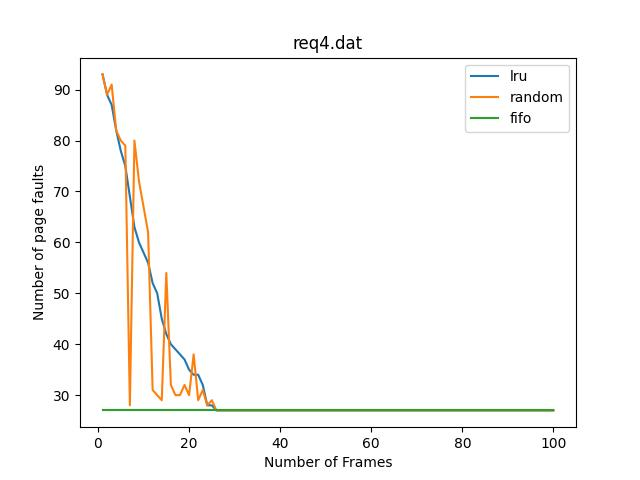
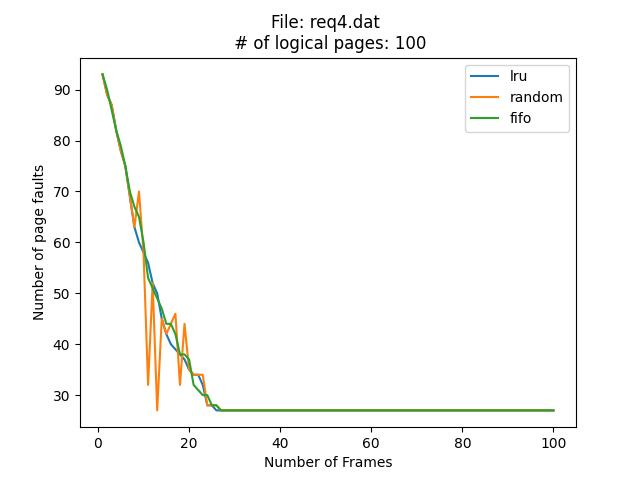
final

Changed region(s): [[0.1562, 0.1562, 0.8438, 0.875], [0.375, 0.0312, 0.6562, 0.125]]

diff --git a/Assignment_8/fifo.cpp b/Assignment_8/fifo.cpp
@@ -6,7 +6,7 @@
 
 using namespace std;
 
-void handle_page_fault(unordered_map<int, bool> &main_memory, int number_of_frames, int requested_page, queue<int> &temp_queue, unordered_map<int, int> &page_table, int &number_of_frames_in_memory) {
+void handle_page_fault(unordered_map<int, bool>& main_memory, int number_of_frames, int requested_page, queue<int>& temp_queue, unordered_map<int, int>& page_table, int& number_of_frames_in_memory) {
     temp_queue.push(requested_page);
 
     if (number_of_frames_in_memory < number_of_frames) {
@@ -30,34 +30,32 @@ int main(int argc, char* argv[]) {
     }
 
     int number_of_pages, number_of_frames, number_of_blocks;
-    
-    try{
+
+    try {
         number_of_pages = atoi(argv[1]), number_of_frames = atoi(argv[2]), number_of_blocks = atoi(argv[3]);
         cout << "Number of pages: " << number_of_pages << endl;
         cout << "Number of frames in main memory: " << number_of_frames << endl;
         cout << "Number of blocks: " << number_of_blocks << endl << endl;
-    }
-    catch (exception e) {
+    } catch (exception e) {
         cout << " Syntax: ./a.out <Number of pages> <Number of Frames in Main Memory> <Number of Blocks> <Path to the file containing requests>\n";
         exit(EXIT_FAILURE);
     }
 
     ifstream request_file;
 
-    try{
+    try {
         request_file.open(argv[4]);
-    }
-    catch (exception e) {
+    } catch (exception e) {
         cout << e.what() << endl;
         exit(EXIT_FAILURE);
     }
 
-    unordered_map<int,int> page_table;
-    unordered_map<int,bool> main_memory;
+    unordered_map<int, int> page_table;
+    unordered_map<int, bool> main_memory;
     queue<int> temp_queue;
     int max_alloted_frame = 0, page_fault = 0, number_of_frames_in_memory = 0;
 
-    while(!request_file.eof()) {
+    while (!request_file.eof()) {
         int requested_page;
         request_file >> requested_page;
         cout << "Requested Page is: " << requested_page << endl;
@@ -75,7 +73,7 @@ int main(int argc, char* argv[]) {
             page_table[requested_page] = max_alloted_frame;
             cout << "New Frame Assigned\n";
         }
-        
+
         if (main_memory.find(page_table[requested_page]) != main_memory.end() && main_memory[page_table[requested_page]]) {
             cout << "Page found in the main memory\n";
         } else {

diff --git a/Assignment_8/plot.py b/Assignment_8/plot.py
@@ -14,12 +14,13 @@ def plot(vSize=60, testcase="req1.dat"):
 	for method in policies:
 		x = np.arange(1, vSize + 1, 1)
 		pageFaults = []
+		# frames in range of [1, vSize]
 		for i in x:
 			pf = getPageFaults(method=method, pSize=i, vSize=vSize, testcase=testcase)
 			pageFaults.append(pf)
 		plt.plot(x, pageFaults, label=method)
 
-	plt.title(testcase)
+	plt.title(f"File: {testcase} \n # of logical pages: {vSize}") 
 	plt.ylabel("Number of page faults")
 	plt.xlabel("Number of Frames")
 	plt.legend()
@@ -32,7 +33,7 @@ def main():
 	plot(60, "req2.dat")
 	plot(30, "req3.dat")
 	plot(100, "req4.dat")
-	plot(50, "req5.dat")
+	plot(100, "req5.dat")
 
 if __name__ == "__main__":
 	main()
